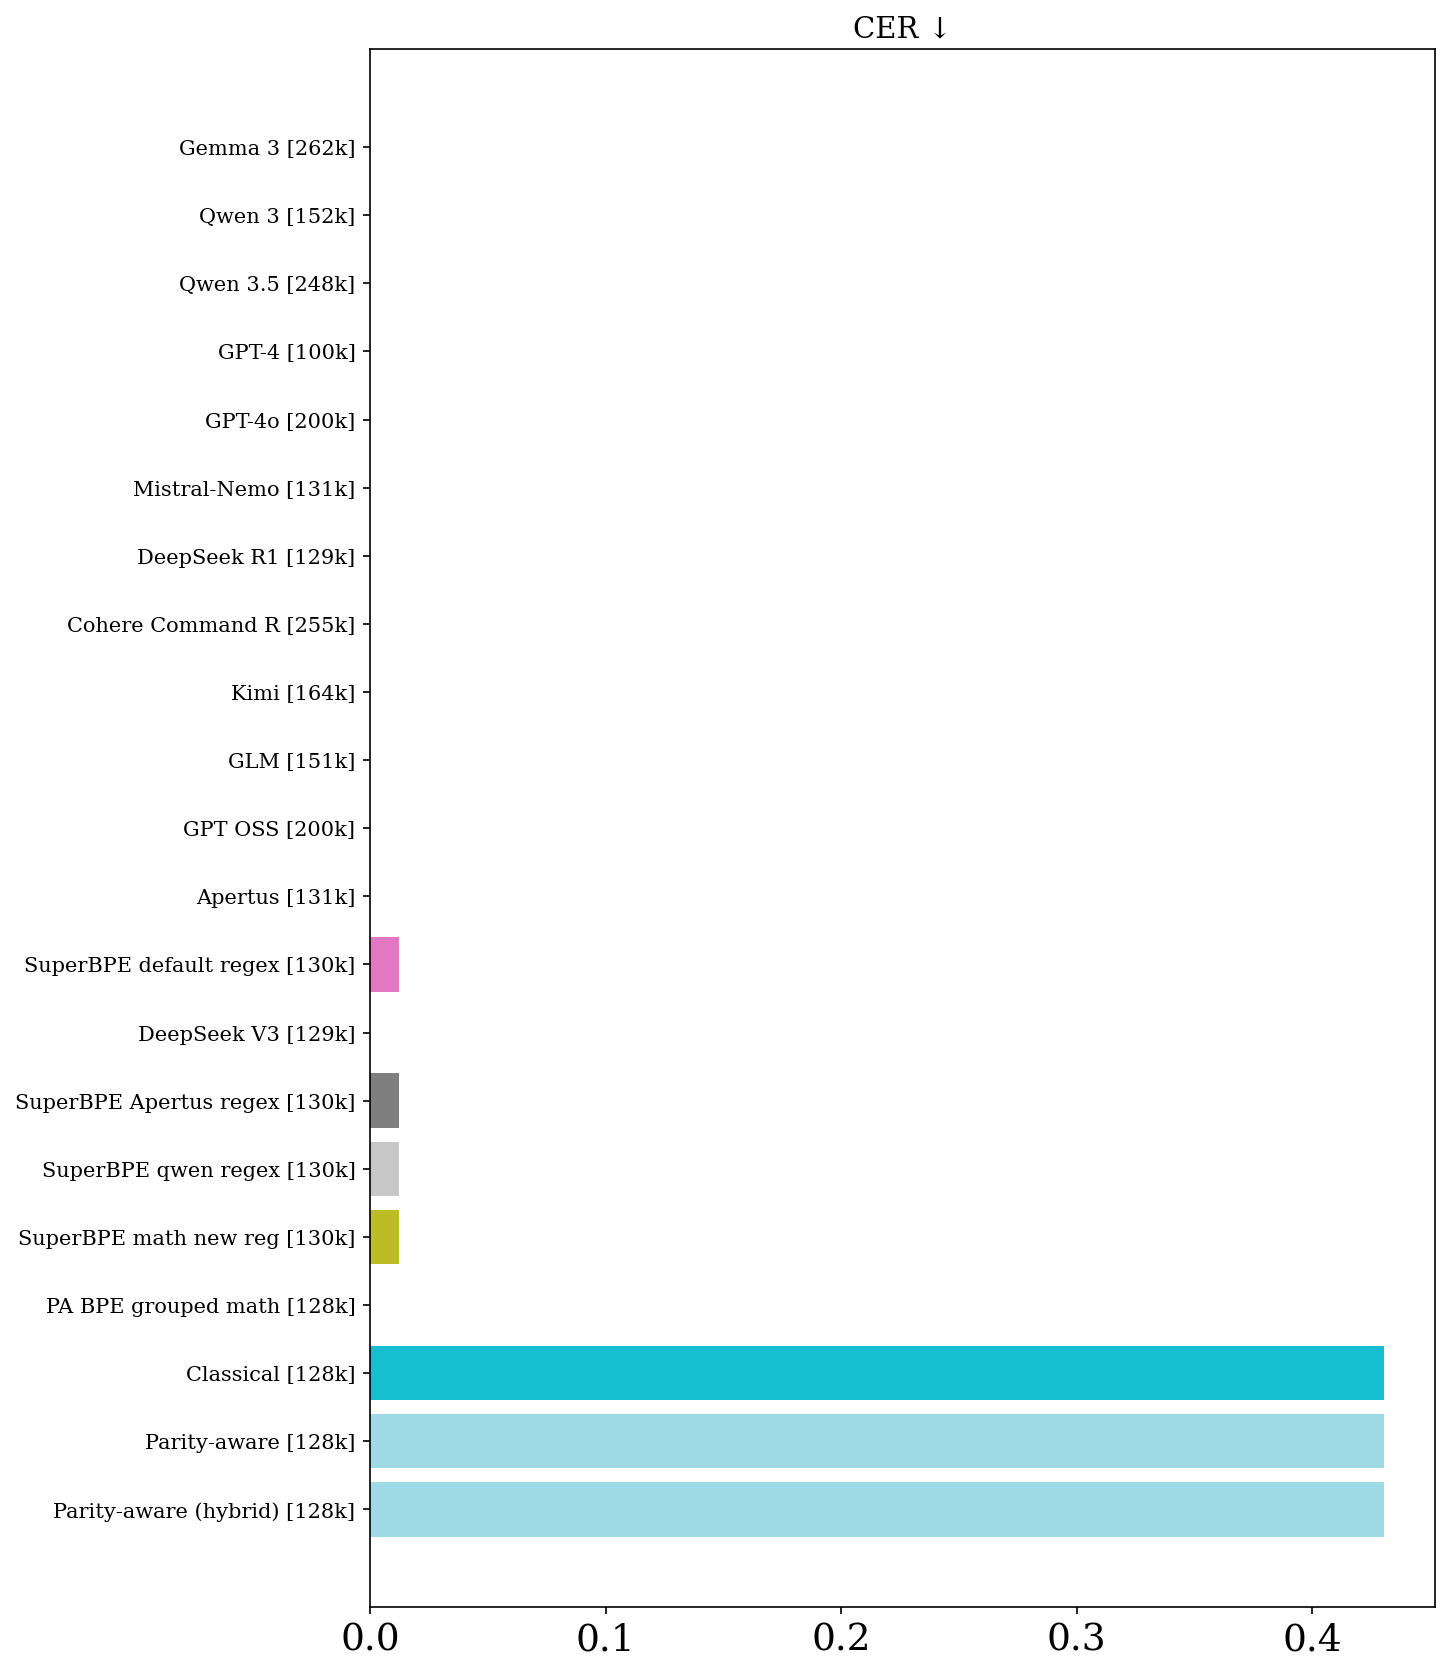
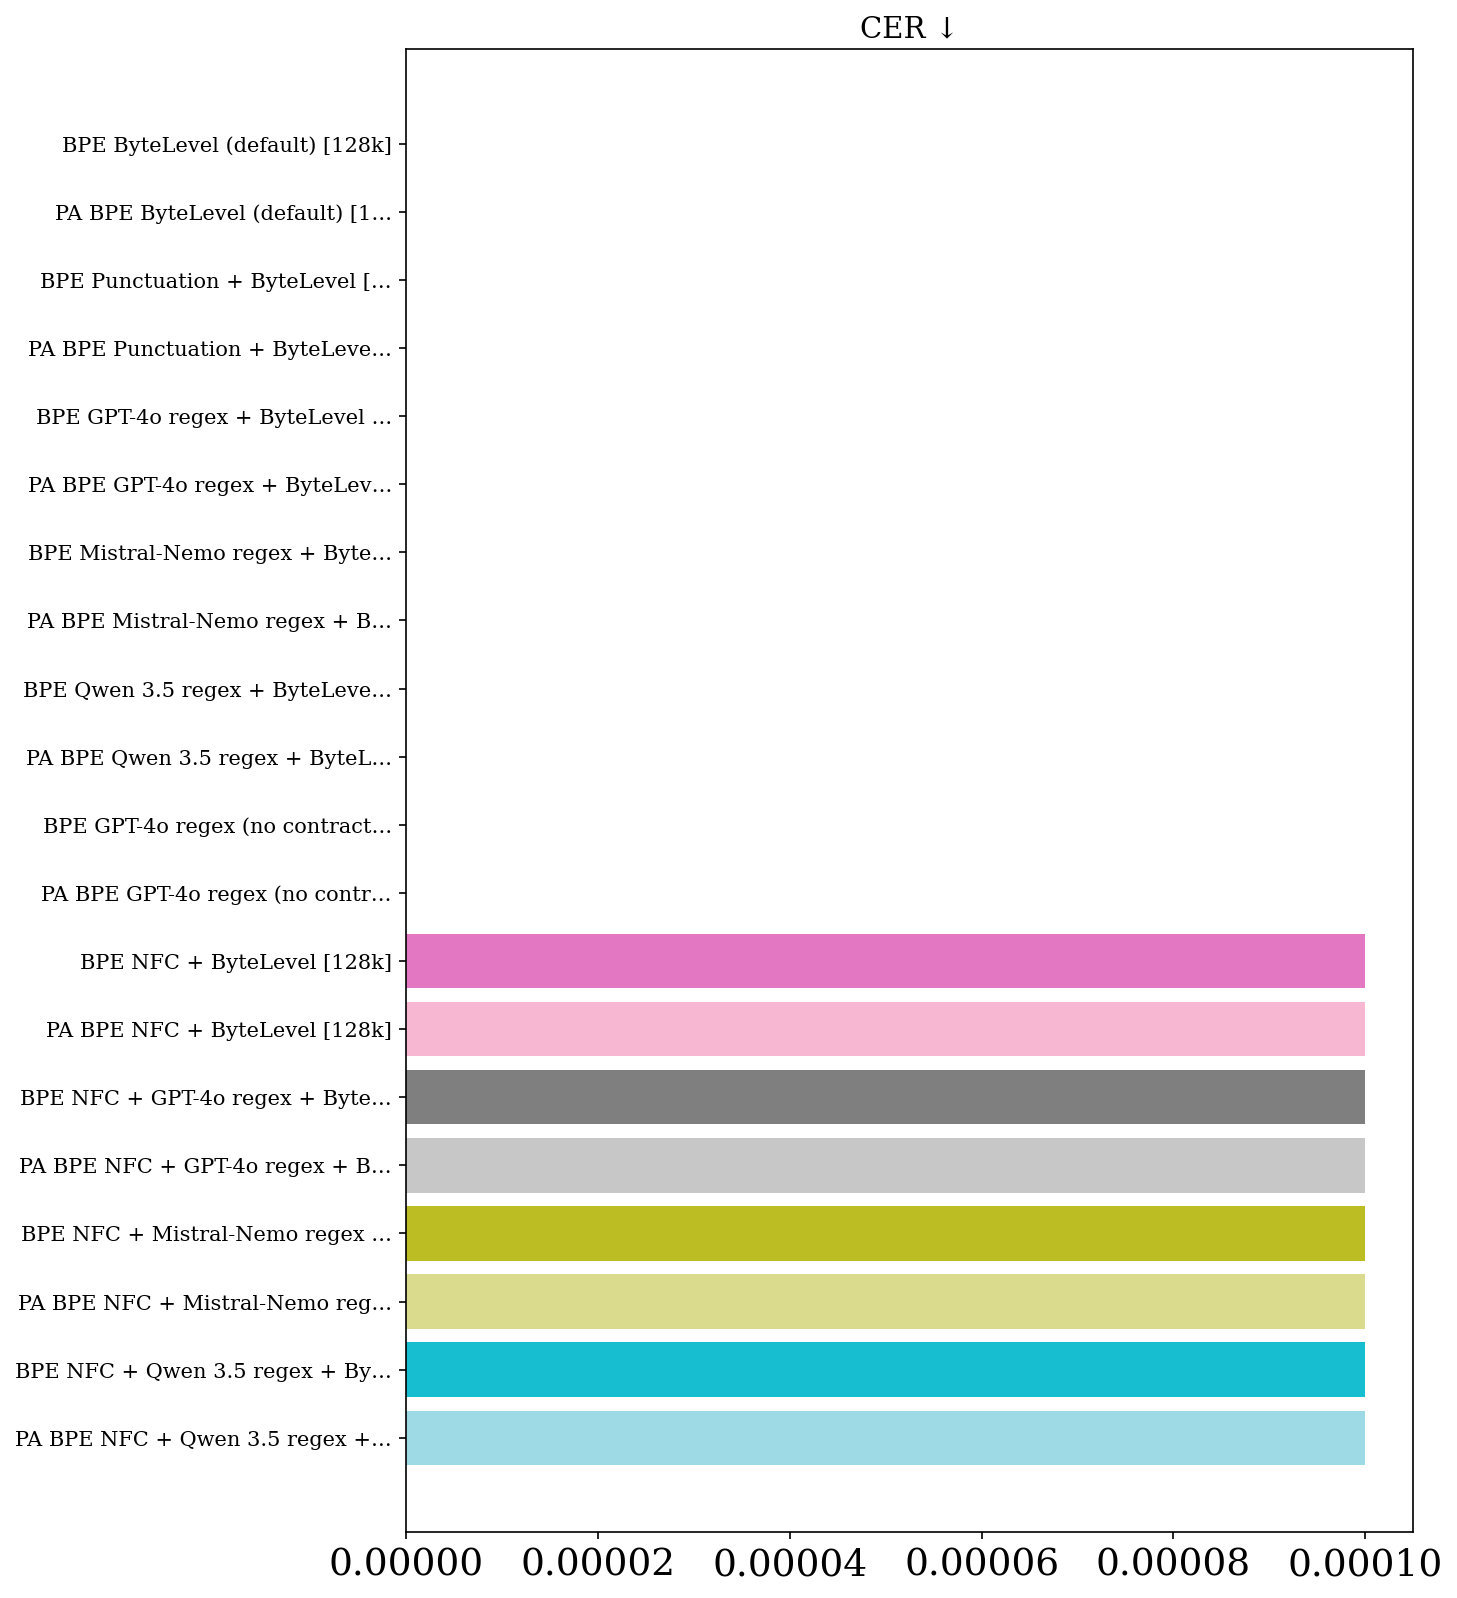
Update RESULTS_flores_core_lines_bpe_ablations.md (2026-03-12 20:16:51)

Changed region(s): [[0.031, 0.0307, 0.9931, 1.0], [0.5897, 0.0, 0.6517, 0.0307]]

diff --git a/RESULTS_flores_core_lines_bpe_ablations.md b/RESULTS_flores_core_lines_bpe_ablations.md
@@ -1,0 +1,26 @@
+# Tokenizer Evaluation Results — flores_core / lines
+
+_Last updated: 2026-03-12 20:07:12_
+
+| Tokenizer | Vocab Size | Fertility ↓ | Compression Rate ↑ | Vocab Util. ↑ | Avg Token Rank ↓ | Gini ↓ | 3-Digit Align. F1 ↑ | Op. Isolation ↑ | Bound. Cross ↓ | Char Split ↓ | CER ↓ | WS Fidelity ↑ | Languages | Dataset | User | Date |
+| --- | --- | --- | --- | --- | --- | --- | --- | --- | --- | --- | --- | --- | --- | --- | --- | --- |
+| BPE ByteLevel (default) [128k] | 128,000 | 39.881 | 0.025 | 0.292 | 4652.2 | 0.134 | 0.775 | 0.992 | 0.0039 | 0.0091 | **0.0000** | **1.000** | 13 | flores_core | cmeister747 | 2026-03-12 |
+| PA BPE ByteLevel (default) [128k] | 127,808 | 53.783 | 0.019 | 0.152 | 1556.1 | 0.170 | 0.768 | 0.992 | 0.0155 | 0.0554 | 0.0000 | 1.000 | 13 | flores_core | cmeister747 | 2026-03-12 |
+| BPE Punctuation + ByteLevel [128k] | 128,000 | 40.179 | 0.025 | **0.295** | 4614.5 | 0.136 | 0.775 | **1.000** | 0.0038 | 0.0089 | 0.0000 | 1.000 | 13 | flores_core | cmeister747 | 2026-03-12 |
+| PA BPE Punctuation + ByteLevel [128k] | 127,840 | 54.220 | 0.018 | 0.154 | **1529.1** | 0.174 | 0.768 | 1.000 | 0.0154 | 0.0559 | 0.0000 | 1.000 | 13 | flores_core | cmeister747 | 2026-03-12 |
+| BPE GPT-4o regex + ByteLevel [128k] | 128,000 | 37.555 | **0.027** | 0.290 | 5156.4 | 0.070 | **0.797** | 0.966 | 0.0044 | 0.0102 | 0.0000 | 1.000 | 13 | flores_core | cmeister747 | 2026-03-12 |
+| PA BPE GPT-4o regex + ByteLevel [128k] | 127,808 | 42.626 | 0.023 | 0.220 | 3290.0 | 0.093 | 0.797 | 0.966 | **0.0029** | **0.0074** | 0.0000 | 1.000 | 13 | flores_core | cmeister747 | 2026-03-12 |
+| BPE Mistral-Nemo regex + ByteLevel [128k] | 128,000 | 37.947 | 0.026 | 0.290 | 5062.2 | 0.069 | 0.450 | 0.966 | 0.0043 | 0.0101 | 0.0000 | 1.000 | 13 | flores_core | cmeister747 | 2026-03-12 |
+| PA BPE Mistral-Nemo regex + ByteLevel [128k] | 127,818 | 43.704 | 0.023 | 0.211 | 3035.5 | 0.089 | 0.450 | 0.966 | 0.0035 | 0.0091 | 0.0000 | 1.000 | 13 | flores_core | cmeister747 | 2026-03-12 |
+| BPE Qwen 3.5 regex + ByteLevel [128k] | 128,000 | 37.993 | 0.026 | 0.289 | 5038.2 | **0.068** | 0.450 | 0.966 | 0.0044 | 0.0102 | 0.0000 | 1.000 | 13 | flores_core | cmeister747 | 2026-03-12 |
+| PA BPE Qwen 3.5 regex + ByteLevel [128k] | 127,818 | 43.725 | 0.023 | 0.211 | 3032.0 | 0.089 | 0.450 | 0.966 | 0.0035 | 0.0091 | 0.0000 | 1.000 | 13 | flores_core | cmeister747 | 2026-03-12 |
+| BPE GPT-4o regex (no contractions) + ByteLevel [128k] | 128,000 | 37.540 | 0.027 | 0.290 | 5161.5 | 0.070 | 0.797 | 0.966 | 0.0044 | 0.0102 | 0.0000 | 1.000 | 13 | flores_core | cmeister747 | 2026-03-12 |
+| PA BPE GPT-4o regex (no contractions) + ByteLevel [128k] | 127,808 | 42.603 | 0.023 | 0.220 | 3293.1 | 0.093 | 0.797 | 0.966 | 0.0030 | 0.0074 | 0.0000 | 1.000 | 13 | flores_core | cmeister747 | 2026-03-12 |
+| BPE NFC + ByteLevel [128k] | 128,000 | 39.872 | 0.025 | 0.292 | 4652.9 | 0.134 | 0.775 | 0.992 | 0.0038 | 0.0095 | 0.0001 | 1.000 | 13 | flores_core | cmeister747 | 2026-03-12 |
+| PA BPE NFC + ByteLevel [128k] | 127,808 | 53.772 | 0.019 | 0.152 | 1556.6 | 0.170 | 0.768 | 0.992 | 0.0155 | 0.0557 | 0.0001 | 1.000 | 13 | flores_core | cmeister747 | 2026-03-12 |
+| BPE NFC + GPT-4o regex + ByteLevel [128k] | 128,000 | **37.539** | 0.027 | 0.290 | 5157.8 | 0.069 | 0.797 | 0.966 | 0.0044 | 0.0107 | 0.0001 | 1.000 | 13 | flores_core | cmeister747 | 2026-03-12 |
+| PA BPE NFC + GPT-4o regex + ByteLevel [128k] | 127,808 | 42.610 | 0.023 | 0.220 | 3290.3 | 0.093 | 0.797 | 0.966 | 0.0029 | 0.0079 | 0.0001 | 1.000 | 13 | flores_core | cmeister747 | 2026-03-12 |
+| BPE NFC + Mistral-Nemo regex + ByteLevel [128k] | 128,000 | 37.930 | 0.026 | 0.290 | 5063.6 | 0.068 | 0.450 | 0.966 | 0.0043 | 0.0106 | 0.0001 | 1.000 | 13 | flores_core | cmeister747 | 2026-03-12 |
+| PA BPE NFC + Mistral-Nemo regex + ByteLevel [128k] | 127,818 | 43.690 | 0.023 | 0.211 | 3035.8 | 0.089 | 0.450 | 0.966 | 0.0035 | 0.0096 | 0.0001 | 1.000 | 13 | flores_core | cmeister747 | 2026-03-12 |
+| BPE NFC + Qwen 3.5 regex + ByteLevel [128k] | 128,000 | 37.977 | 0.026 | 0.289 | 5039.6 | 0.068 | 0.450 | 0.966 | 0.0044 | 0.0107 | 0.0001 | 1.000 | 13 | flores_core | cmeister747 | 2026-03-12 |
+| PA BPE NFC + Qwen 3.5 regex + ByteLevel [128k] | 127,818 | 43.711 | 0.023 | 0.211 | 3032.2 | 0.089 | 0.450 | 0.966 | 0.0035 | 0.0096 | 0.0001 | 1.000 | 13 | flores_core | cmeister747 | 2026-03-12 |
